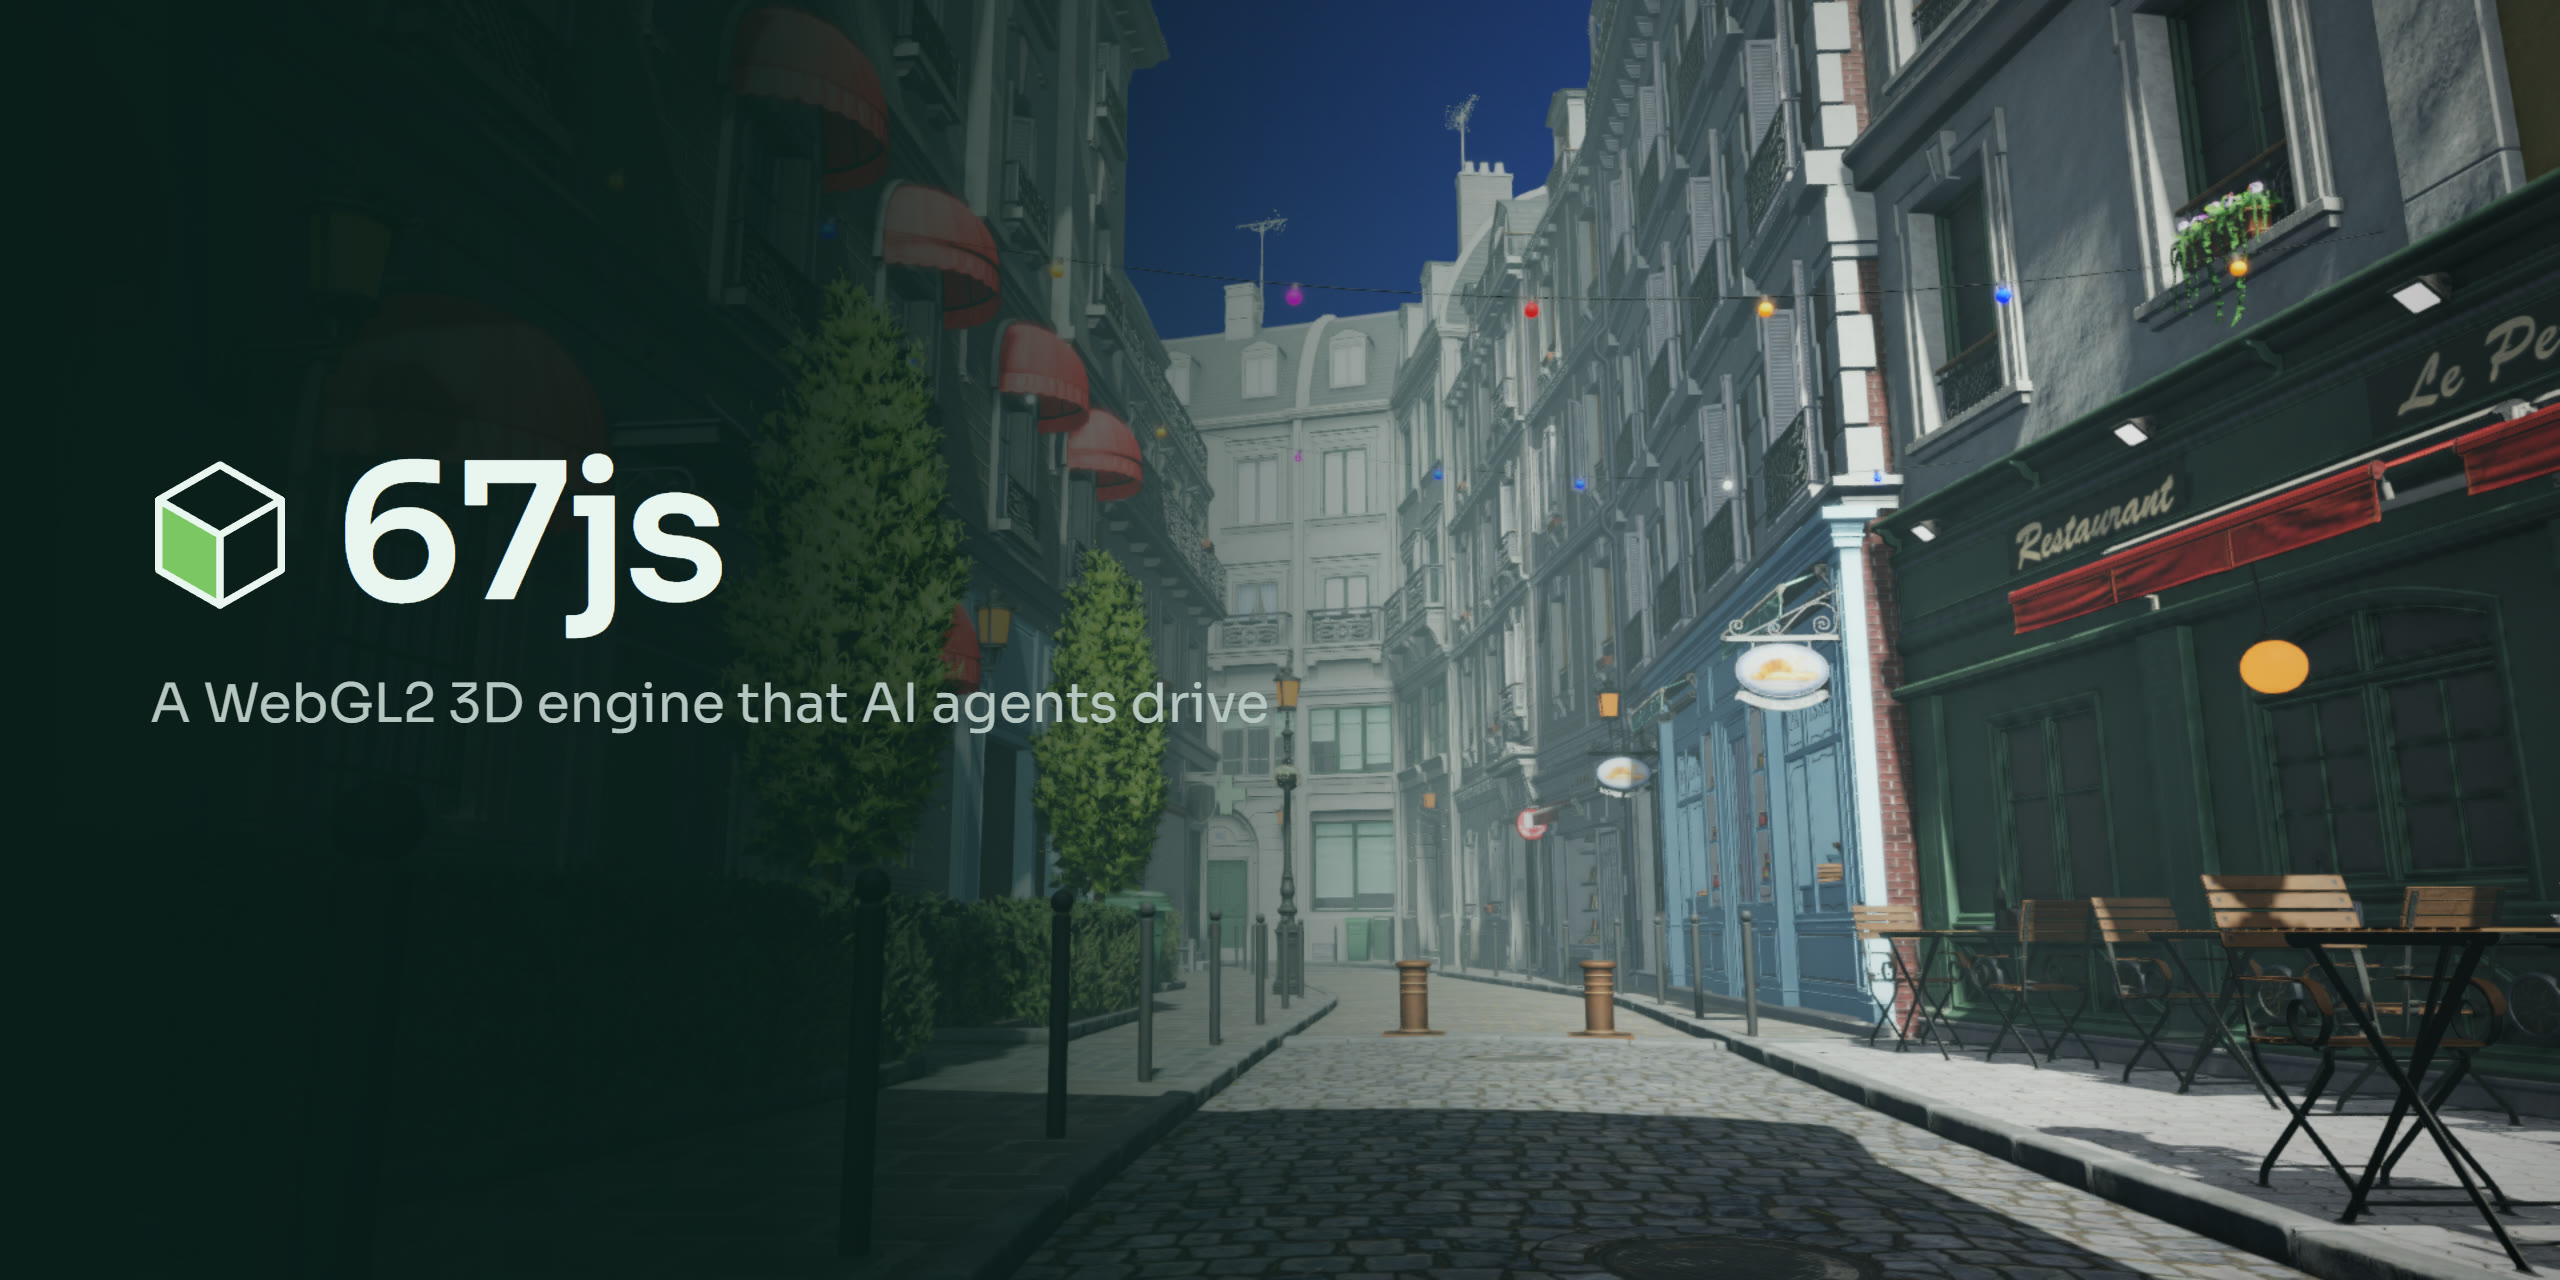
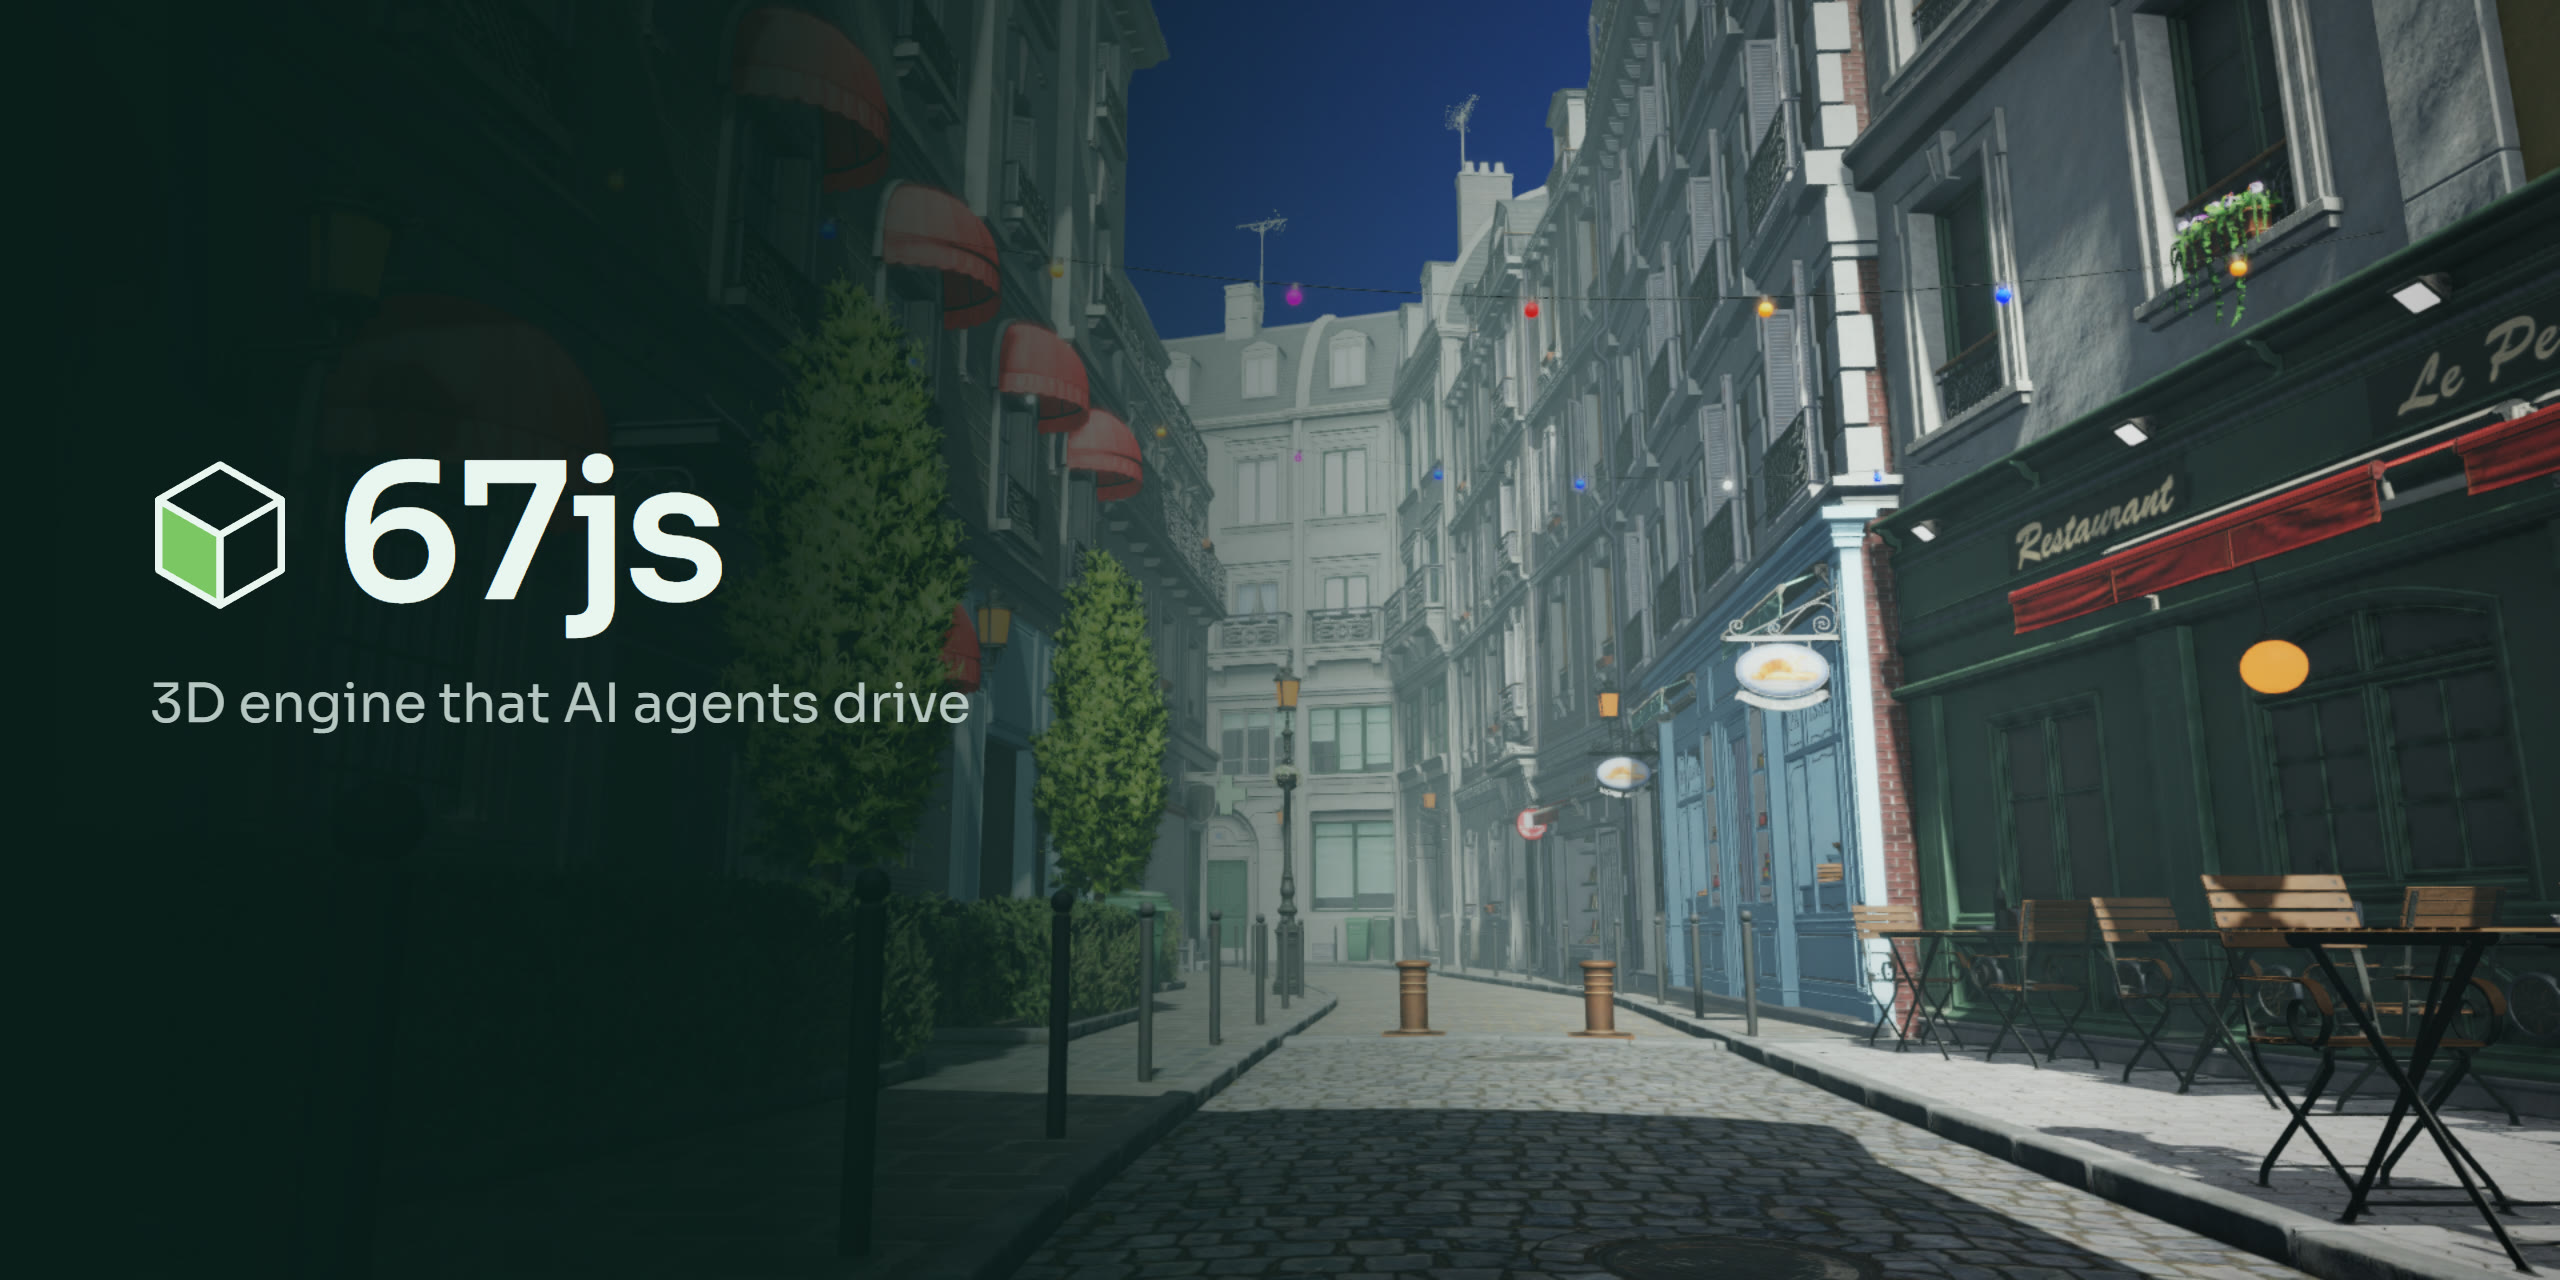
Use the tagline "3D engine that AI agents drive"
The README banner, the site title, hero and meta description, the
package description and llms.txt now say the same line as the GitHub
repo description.

Changed region(s): [[0.0625, 0.5312, 0.5, 0.5625]]

diff --git a/index.html b/index.html
@@ -4,17 +4,17 @@
     <meta charset="UTF-8" />
     <meta name="viewport" content="width=device-width, initial-scale=1.0" />
     <meta name="theme-color" content="#09070f" />
-    <meta name="description" content="67js is a WebGL2 3D engine that AI agents drive: Glaze real-time rendering, Cook path tracing, GLB, PNG and MP4 export, and an MCP server. Install with npm i @codepawlhq/67js." />
+    <meta name="description" content="67js is a 3D engine that AI agents drive: Glaze real-time rendering, Cook path tracing, GLB, PNG and MP4 export, and an MCP server. Install with npm i @codepawlhq/67js." />
     <meta property="og:type" content="website" />
     <meta property="og:site_name" content="67js" />
-    <meta property="og:title" content="67js · a 3D engine agents can drive" />
+    <meta property="og:title" content="67js · 3D engine that AI agents drive" />
     <meta property="og:description" content="Real-time WebGL2, offline path tracing and an MCP server in one npm package." />
     <meta property="og:url" content="https://67js.codepawl.com/" />
     <meta property="og:image" content="https://67js.codepawl.com/previews/showcase-airport.webp" />
     <meta property="og:image:alt" content="An airport ramp rendered by 67js" />
     <meta name="twitter:card" content="summary_large_image" />
     <link rel="canonical" href="https://67js.codepawl.com/" />
-    <title>67js · a 3D engine agents can drive</title>
+    <title>67js · 3D engine that AI agents drive</title>
     <link rel="icon" href="/favicon.svg" />
   </head>
   <body class="site">
@@ -45,7 +45,7 @@
           </aside>
         </div>
         <div class="hero-copy">
-          <h1>A 3D engine<br />agents can drive</h1>
+          <h1>3D engine that<br />AI agents drive</h1>
           <p class="lede">Real-time WebGL2 with Glaze, offline path tracing with Cook, and 23 MCP tools in one package.</p>
           <div class="hero-actions">
             <a href="/docs.html#getting-started" data-icon="book">Get started</a>

diff --git a/README.md b/README.md
@@ -1,5 +1,5 @@
 <p align="center">
-  <a href="https://67js.codepawl.com"><img src="https://67js.codepawl.com/previews/banner.jpg" alt="67js: a WebGL2 3D engine that AI agents drive, over a Bistro street rendered by it" width="100%"></a>
+  <a href="https://67js.codepawl.com"><img src="https://67js.codepawl.com/previews/banner.jpg" alt="67js: 3D engine that AI agents drive, over a Bistro street rendered by it" width="100%"></a>
 </p>
 
 <p align="center">

diff --git a/changes/tagline.md b/changes/tagline.md
@@ -1,0 +1,1 @@
+- The tagline is now "3D engine that AI agents drive" on the site, the package and the README banner
